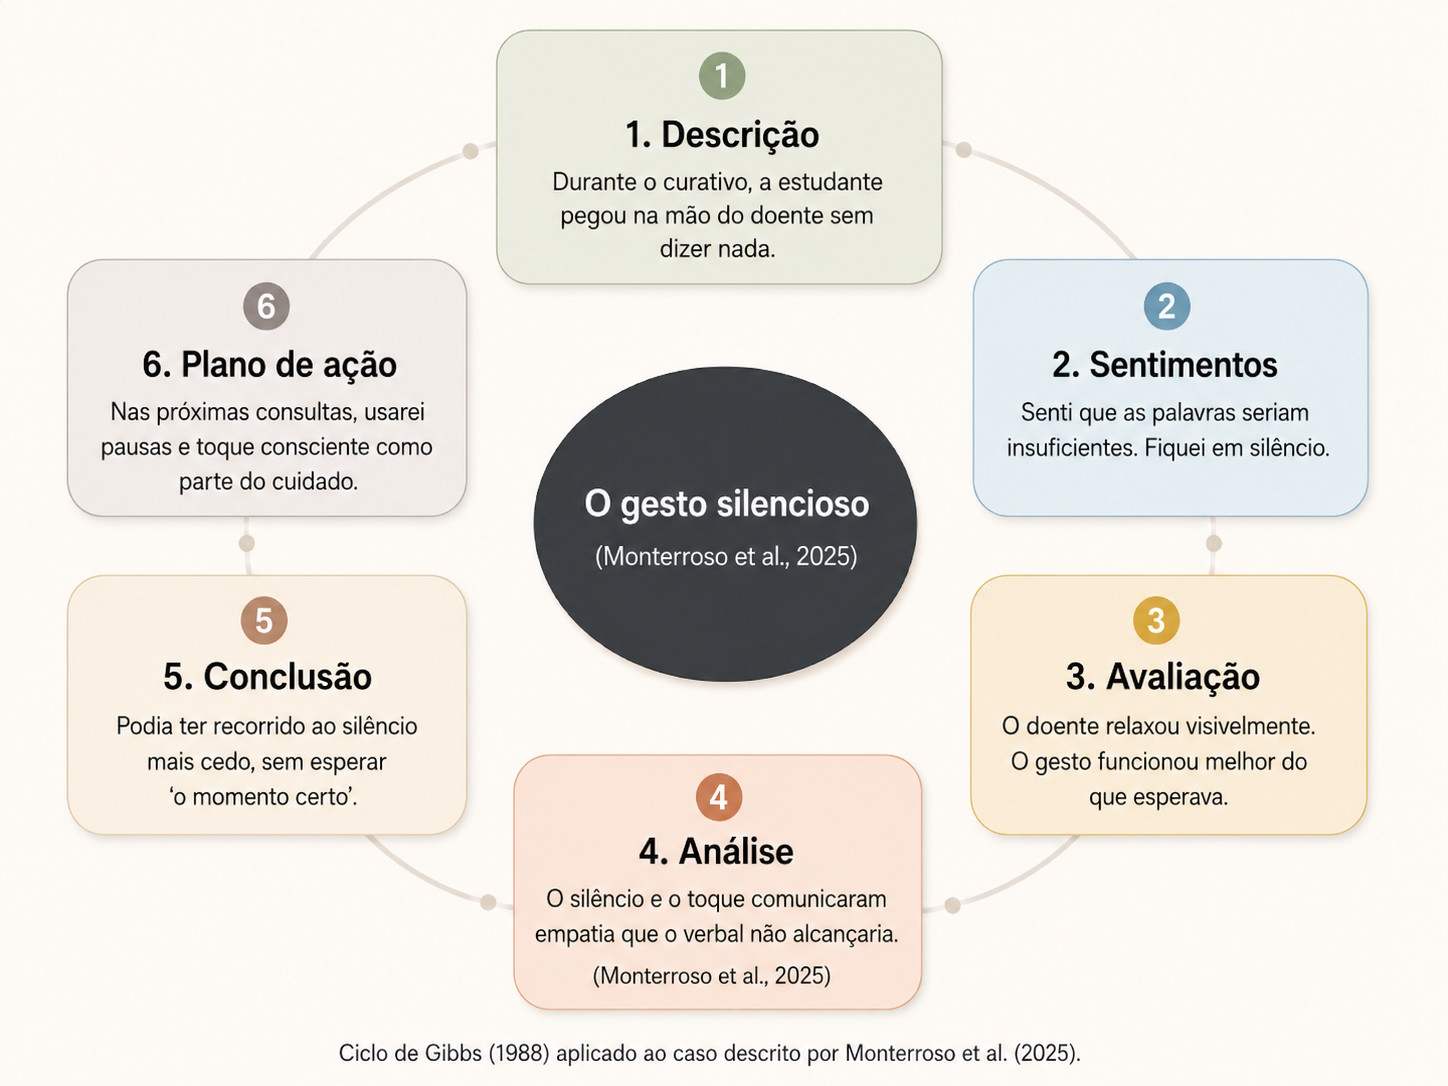
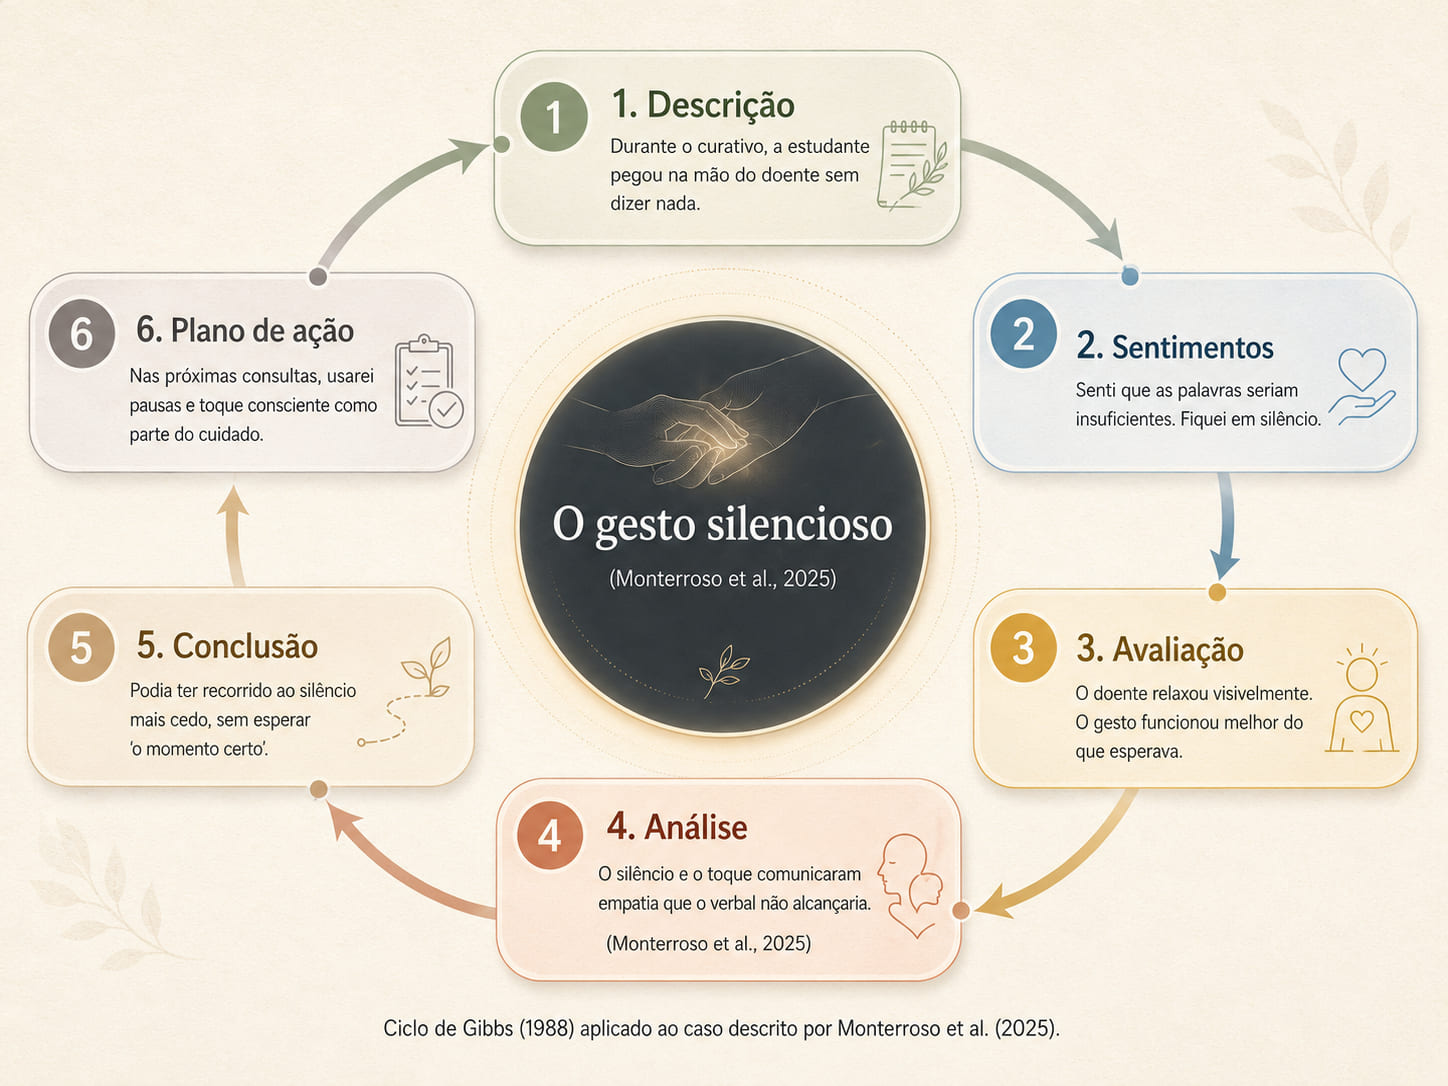
Add files via upload

diff --git a/html/info/varios/silencio/index.html b/html/info/varios/silencio/index.html
@@ -530,8 +530,15 @@
     </div>
 
     <figure>
+      <img src="img/ser-de-intervalo.jpg"
+           alt="Representação visual do conceito japonês de ningen — duas silhuetas humanas com o espaço entre elas como elemento constitutivo, ilustrando que o ser humano é pessoa mais intervalo"
+           style="width:100%; border-radius:8px; display:block;">
+      <figcaption>Figura 2 — 人間 (<em>ningen</em>): pessoa + intervalo. O silêncio não é o que falta ao humano — é parte do que o constitui. (Okano, 2011 [5])</figcaption>
+    </figure>
+
+    <figure>
       <img src="img/ma-espaco.jpg" alt="Espaço arquitectónico japonês com vazio intencional — corredor ou jardim de pedras onde o espaço entre elementos é o sujeito" style="width:100%; border-radius:8px; display:block;">
-      <figcaption>Figura 2 — O espaço como sujeito: na arquitectura e no jardim japoneses, o vazio entre os elementos não é ausência — é o que organiza o sentido. Expressão visual do ma. (Okano, 2011 [5])</figcaption>
+      <figcaption>Figura 3 — O espaço como sujeito: na arquitectura e no jardim japoneses, o vazio entre os elementos não é ausência — é o que organiza o sentido. Expressão visual do ma. (Okano, 2011 [5])</figcaption>
     </figure>
   </section>
 
@@ -636,13 +643,20 @@
       <p style="margin-top:14px; font-size:13.5px;">Conclusão da revisão: <strong>o silêncio transcende a função técnica, sendo recurso multifacetado que contribui para a humanização do cuidado.</strong></p>
     </div>
 
+    <figure>
+      <img src="img/peplau-fases.jpg"
+           alt="Diagrama das quatro fases da relação enfermeiro-paciente segundo Peplau — orientação, identificação, exploração e resolução — com o papel do silêncio em cada etapa"
+           style="width:100%; border-radius:8px; display:block;">
+      <figcaption>Figura 4 — As quatro fases da relação terapêutica de Peplau e o papel do silêncio em cada uma. (Franzoni et al., 2016 [10]; RIAGE, 2025)</figcaption>
+    </figure>
+
     <h3>Conspiração do silêncio: o silêncio que adoece</h3>
 
     <p>Nem todo silêncio clínico é terapêutico. A <strong>conspiração do silêncio</strong> — quando familiares solicitam que profissionais omitam informações de diagnóstico e prognóstico do paciente, como ato protetor — tem alta incidência em cuidados paliativos brasileiros.<span class="ref">Machado et al., 2019 – SciELO CR</span> Revisão integrativa na BVS (Machado et al., 2019) mostrou que pacientes envolvidos nessa dinâmica sentem-se <em>isolados, incompreendidos, enganados, ansiosos e deprimidos</em> — impedidos de encerrar assuntos importantes ou de se despedir. A comunicação ineficaz contribui diretamente para a falta de informação entre equipe, paciente e família. Há necessidade urgente de aprender a <em>ouvir</em> — não apenas falar.</p>
 
     <figure>
       <img src="img/silencio-clinico.jpg" alt="Profissional de saúde sentado junto ao doente em postura de escuta — corpo inclinado, sem falar, presença atenta" style="width:100%; border-radius:8px; display:block;">
-      <figcaption>Figura 3 — Silêncio clínico: a postura de escuta activa comunica presença e aceitação sem necessidade de palavras. (Back et al., 2009 [1])</figcaption>
+      <figcaption>Figura 5 — Silêncio clínico: a postura de escuta activa comunica presença e aceitação sem necessidade de palavras. (Back et al., 2009 [1])</figcaption>
     </figure>
   </section>
 
@@ -682,7 +696,7 @@
 
     <figure>
       <img src="img/teleconsulta.jpg" alt="Profissional de enfermagem em chamada de vídeo com doente — expressão atenta, postura de escuta, presença não apressada" style="width:100%; border-radius:8px; display:block;">
-      <figcaption>Figura 4 — Telemonitoramento: o silêncio intencional (ICS) é habilidade treinável mesmo à distância — esperar 4 a 5 segundos antes de reformular a pergunta pode revelar informação clínica essencial. (Gramling et al., 2022 [2])</figcaption>
+      <figcaption>Figura 6 — Telemonitoramento: o silêncio intencional (ICS) é habilidade treinável mesmo à distância — esperar 4 a 5 segundos antes de reformular a pergunta pode revelar informação clínica essencial. (Gramling et al., 2022 [2])</figcaption>
     </figure>
 
     <div class="pull">
@@ -697,7 +711,7 @@
       <img src="img/gibbs-silencio.jpg"
            alt="Diagrama circular do Ciclo de Gibbs aplicado ao caso do artigo ARACÊ 2025 — seis etapas de reflexão estruturada a partir do gesto silencioso de uma estudante de enfermagem junto a um doente com ferida crónica"
            style="width:100%; border-radius:8px; display:block;">
-      <figcaption>Figura 5 — Ciclo de Gibbs (1988) aplicado ao relato de experiência de Monterroso et al. (ARACÊ, 2025 [11]): o gesto silencioso transformado em aprendizagem estruturada. Gibbs G. <em>Learning by Doing</em>. Oxford: Oxford Polytechnic; 1988.</figcaption>
+      <figcaption>Figura 7 — Ciclo de Gibbs (1988) aplicado ao relato de experiência de Monterroso et al. (ARACÊ, 2025 [11]): o gesto silencioso transformado em aprendizagem estruturada. Gibbs G. <em>Learning by Doing</em>. Oxford: Oxford Polytechnic; 1988.</figcaption>
     </figure>
   </section>
 
@@ -854,7 +868,7 @@
         <div style="padding:22px 20px;">
           <p style="font-size:10.5px; font-weight:600; letter-spacing:.18em; text-transform:uppercase; color:var(--ink-soft); margin-bottom:6px;">Mike Nichols, 2001</p>
           <h3 style="font-family:'Cormorant Garamond',serif; font-size:22px; font-weight:600; margin-bottom:10px;">Wit</h3>
-          <p style="font-size:14.5px; color:var(--ink-soft); line-height:1.65;">Uma professora de literatura é internada com cancro terminal em fase avançada. O filme tem uma cena de silêncio partilhado entre ela e a enfermeira que é exactamente o que Back et al. (2009) descrevem como <em>silêncio compassivo</em> — presença sem palavras, como acto de cuidado. Vale só por essa cena.</p>
+          <p style="font-size:14.5px; color:var(--ink-soft); line-height:1.65;">Conta a história de uma professora universitária de literatura (Emma Thompson) acometida por um câncer de ovário em estágio avançado. Profissional rígida, ela muda suas perspectivas e o modo como encara a vida ao descobrir a doença. O filme tem uma cena de silêncio partilhado entre ela e a enfermeira que é exactamente o que Back et al. (2009) descrevem como <em>silêncio compassivo</em> — presença sem palavras, como acto de cuidado. Vale só por essa cena.</p>
           <p style="font-size:13px; color:var(--sage); margin-top:12px; font-weight:500;">→ Para discutir com estudantes de enfermagem: o que faz a enfermeira que o médico não faz?</p>
         </div>
       </div>
